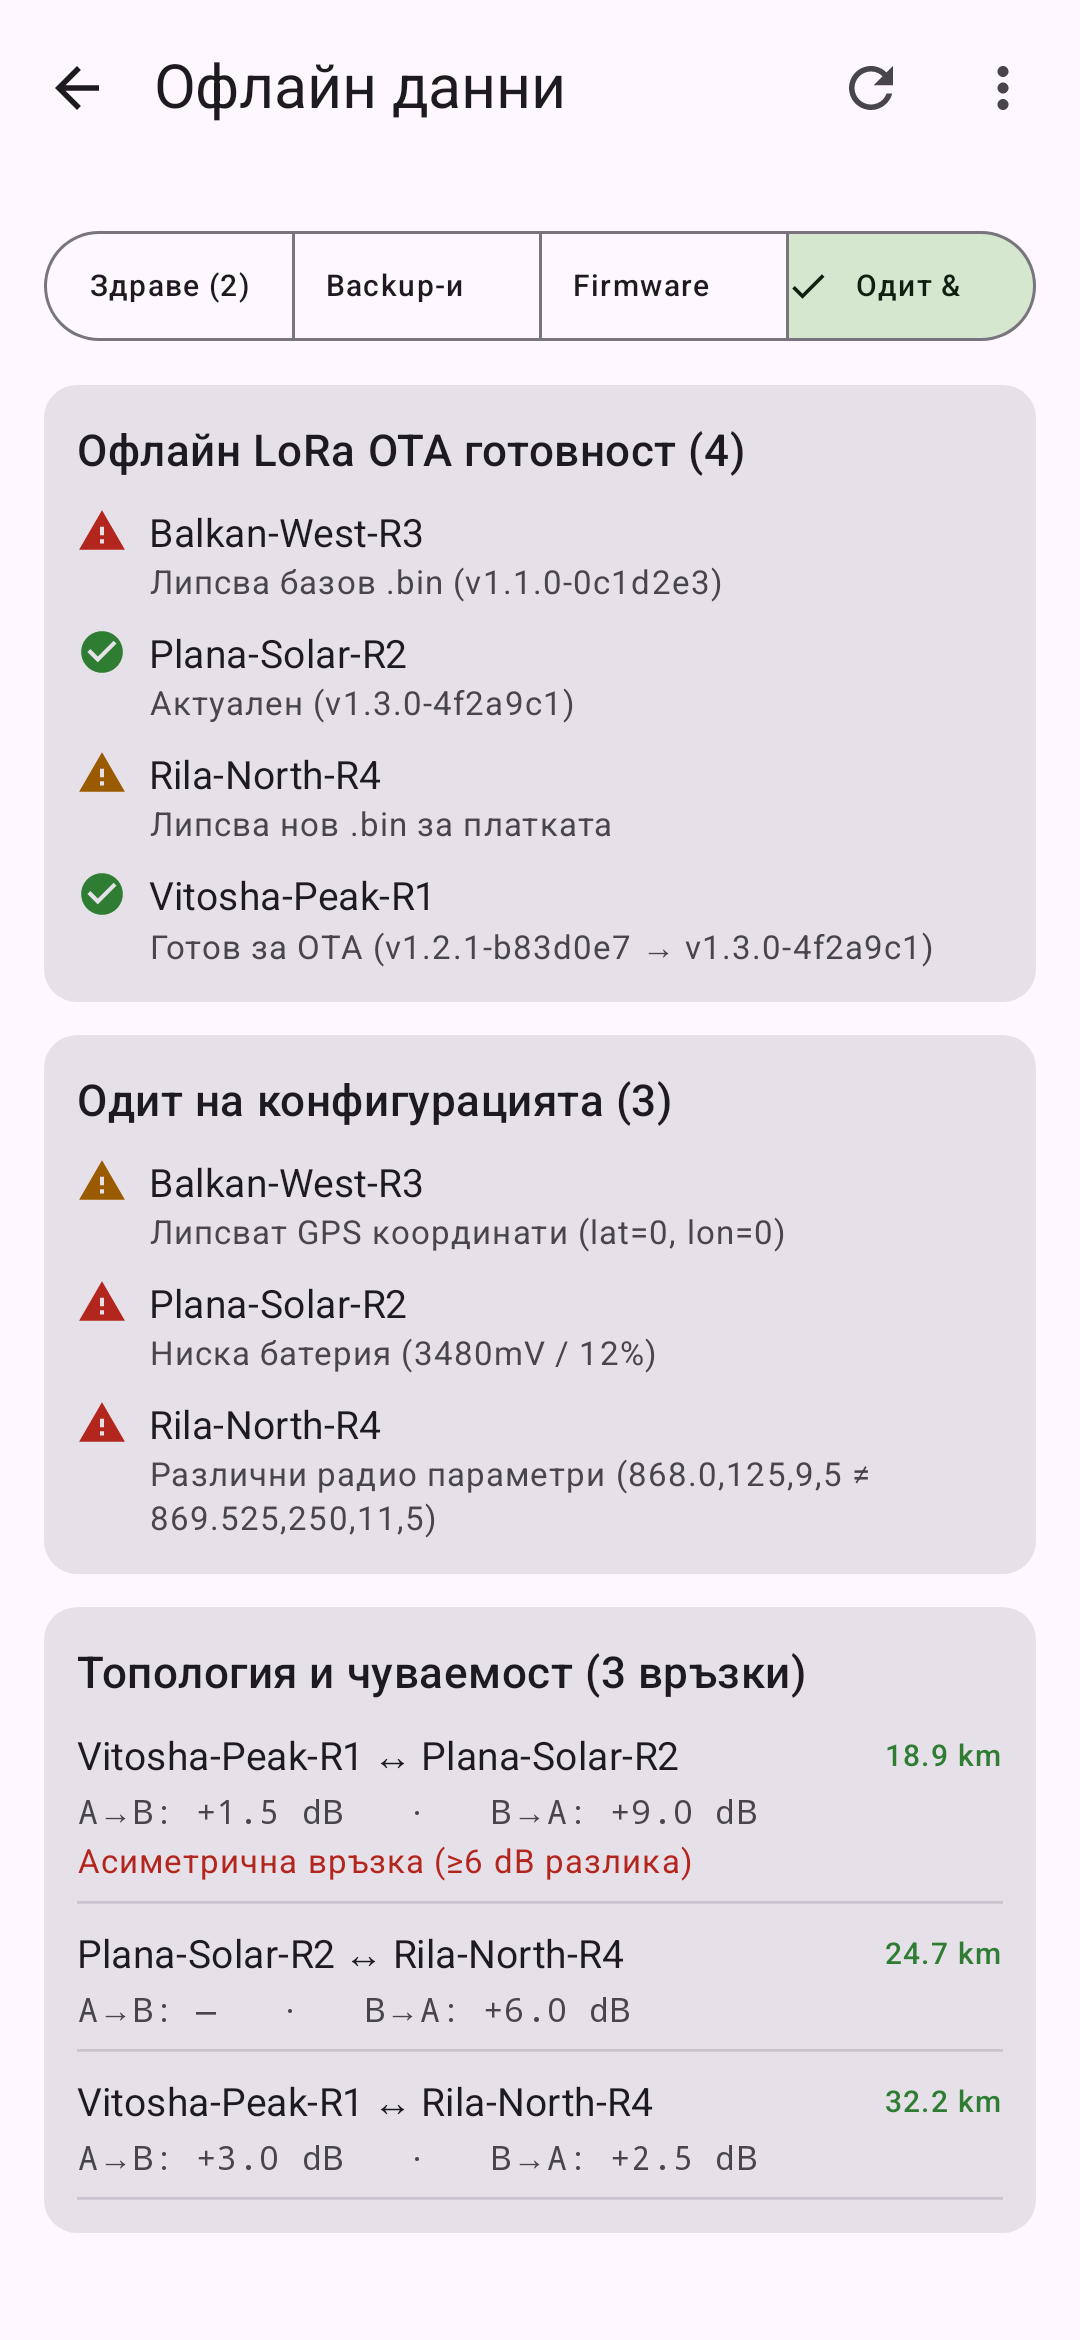
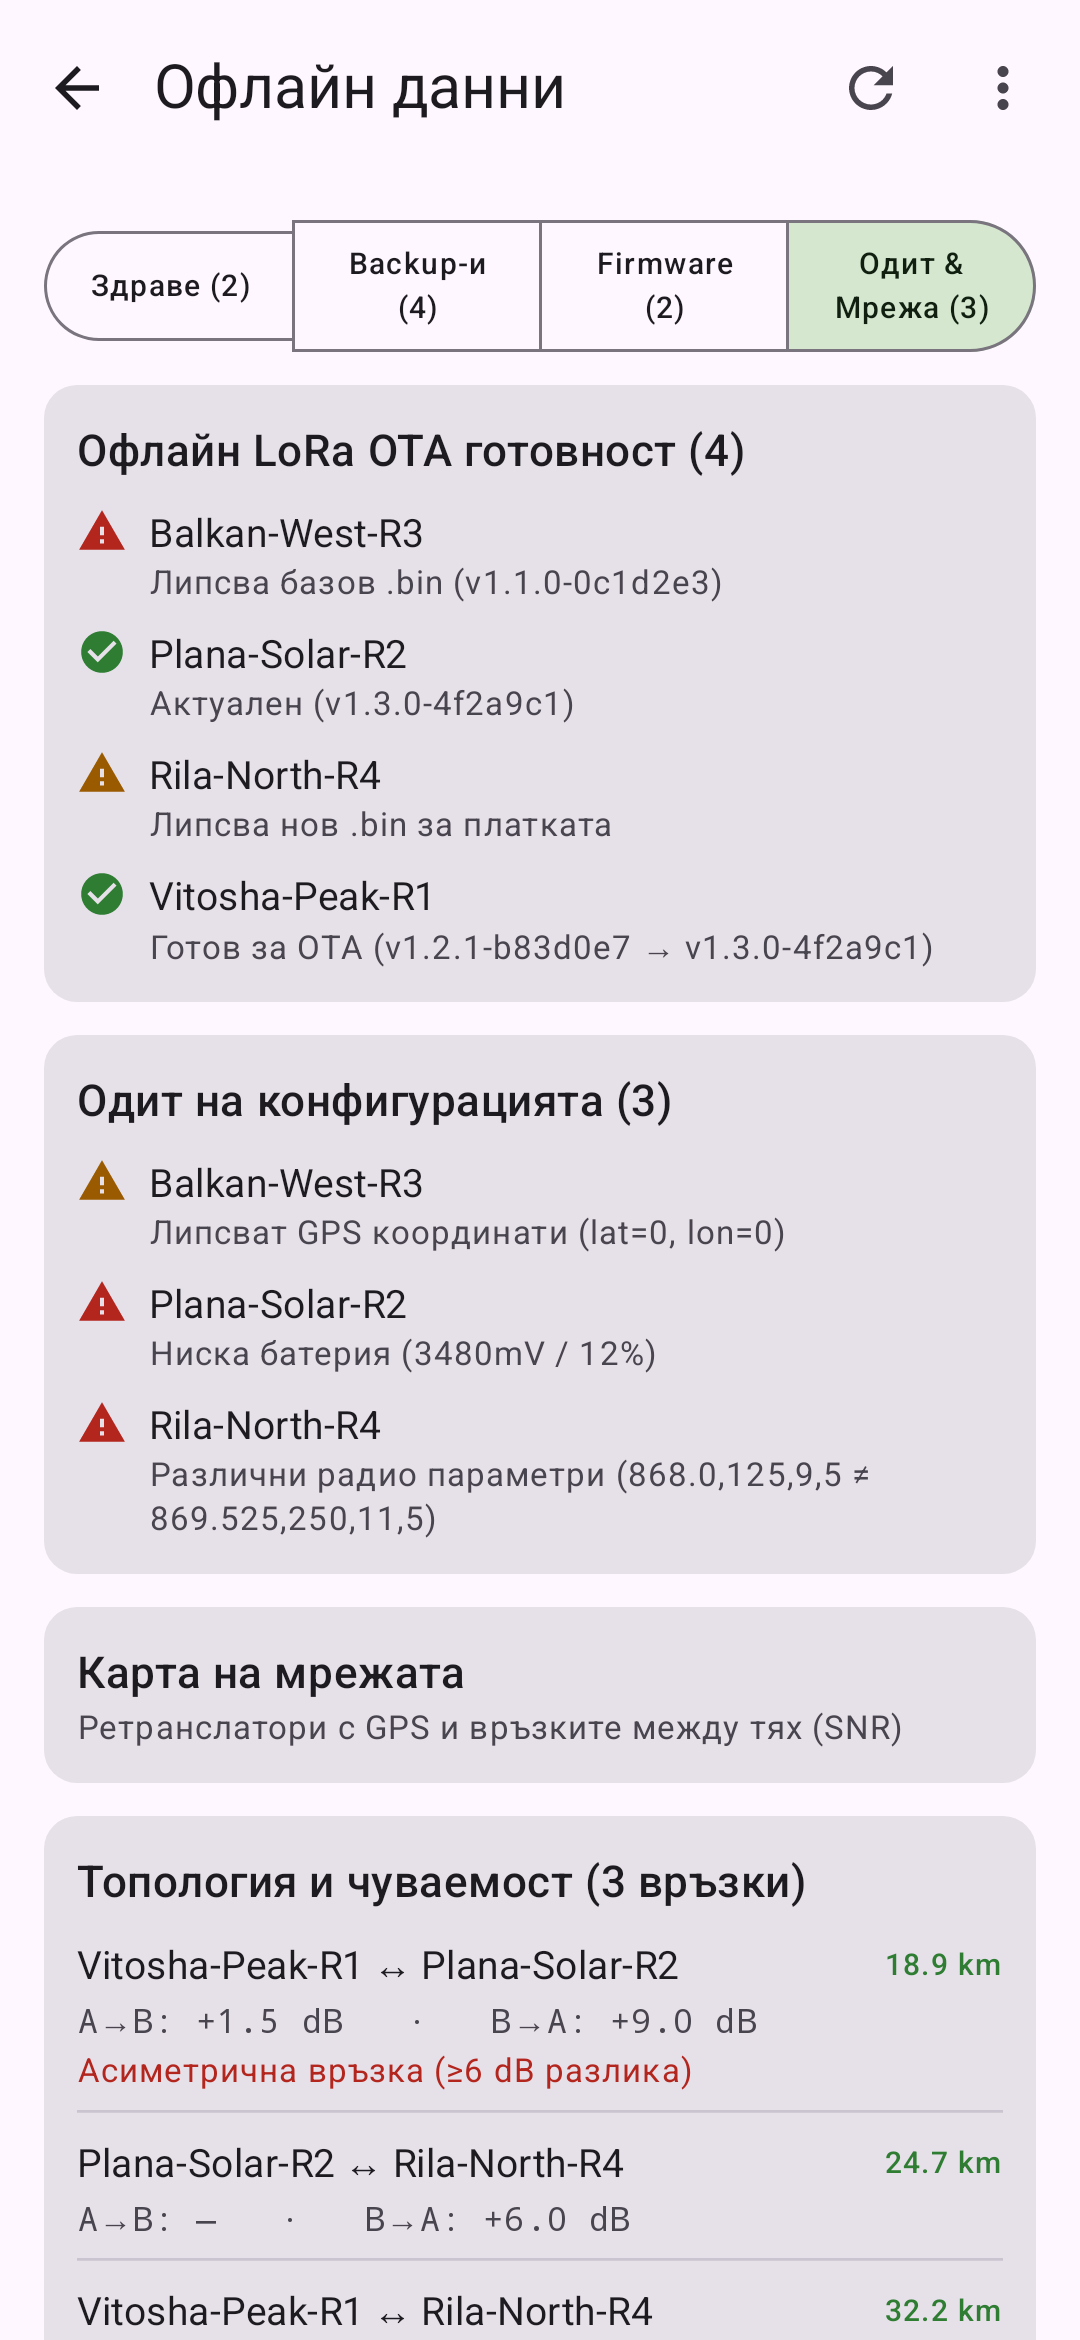
fix(android): readable segmented tabs, app-language dates in backup compare, new start hint; screenshots re-recorded
Claude-Session: https://claude.ai/code/session_01P5Km7y9HN364ojjGATyfz1

diff --git a/android/app/src/main/kotlin/io/github/n3tk0/loraota/ui/BackupCompareScreen.kt b/android/app/src/main/kotlin/io/github/n3tk0/loraota/ui/BackupCompareScreen.kt
@@ -44,9 +44,11 @@ fun BackupCompareDialog(a: Backup, b: Backup, onClose: () -> Unit) {
 fun BackupCompareContent(a: Backup, b: Backup, onClose: () -> Unit) {
     val (old, new) = remember(a, b) { BackupCompare.inTimeOrder(a, b) }
     val cmp = remember(old, new) { BackupCompare.compare(old, new) }
-    val fmt = remember { DateFormat.getDateTimeInstance(DateFormat.SHORT, DateFormat.SHORT) }
+    // the app's language (it can differ from the phone's), not the JVM default
+    val locale = androidx.compose.ui.platform.LocalConfiguration.current.locales[0]
+    val fmt = remember(locale) { DateFormat.getDateTimeInstance(DateFormat.SHORT, DateFormat.SHORT, locale) }
     fun label(x: Backup) = "${x.deviceName.ifEmpty { x.deviceKey.take(8) }} · ${fmt.format(Date(x.time))}" +
-        (if (x.firmware.isNotEmpty()) " · ${x.firmware}" else "")
+        (if (x.firmware.isNotEmpty()) " · ${x.firmware.replace("|", " · ")}" else "")
 
     run {
         Surface(Modifier.fillMaxSize(), color = MaterialTheme.colorScheme.background) {

diff --git a/android/app/src/main/kotlin/io/github/n3tk0/loraota/ui/KnownRepeatersSection.kt b/android/app/src/main/kotlin/io/github/n3tk0/loraota/ui/KnownRepeatersSection.kt
@@ -133,7 +133,7 @@ private fun KnownRepeaterCard(vm: AppViewModel, row: KnownRepeaterRow, warnTint:
                 }
                 if (battery != null) Text(battery, style = MaterialTheme.typography.labelMedium)
                 if (row.firmware.isNotEmpty()) {
-                    Text(row.firmware, style = MaterialTheme.typography.labelMedium, color = MaterialTheme.colorScheme.onSurfaceVariant)
+                    Text(row.firmware.replace("|", " · "), style = MaterialTheme.typography.labelMedium, color = MaterialTheme.colorScheme.onSurfaceVariant)
                 }
             }
             Row(verticalAlignment = Alignment.CenterVertically) {

diff --git a/android/app/src/main/kotlin/io/github/n3tk0/loraota/ui/OfflineScreen.kt b/android/app/src/main/kotlin/io/github/n3tk0/loraota/ui/OfflineScreen.kt
@@ -134,8 +134,10 @@ fun OfflineScreen(vm: AppViewModel) {
                 selected = tab == i,
                 onClick = { tab = i },
                 shape = SegmentedButtonDefaults.itemShape(i, tabs.size),
+                icon = {},   // no check mark: four labels need the whole width
             ) {
-                Text("${stringResource(labelRes)} ($count)", maxLines = 1, style = MaterialTheme.typography.labelSmall)
+                Text("${stringResource(labelRes)} ($count)", maxLines = 2, style = MaterialTheme.typography.labelSmall,
+                    textAlign = androidx.compose.ui.text.style.TextAlign.Center)
             }
         }
     }

diff --git a/android/app/src/main/kotlin/io/github/n3tk0/loraota/ui/RepeaterTools.kt b/android/app/src/main/kotlin/io/github/n3tk0/loraota/ui/RepeaterTools.kt
@@ -401,7 +401,7 @@ fun RepeaterToolsTab(vm: AppViewModel) {
     val sections = listOf(
         R.string.tools_cli,
         R.string.tools_settings,
-        R.string.backup_open,
+        R.string.tools_backup_short,
     )
 
     SingleChoiceSegmentedButtonRow(Modifier.fillMaxWidth()) {
@@ -410,6 +410,7 @@ fun RepeaterToolsTab(vm: AppViewModel) {
                 selected = toolSection == i,
                 onClick = { toolSection = i },
                 shape = SegmentedButtonDefaults.itemShape(i, sections.size),
+                icon = {},
             ) {
                 Text(stringResource(labelRes), maxLines = 1)
             }
